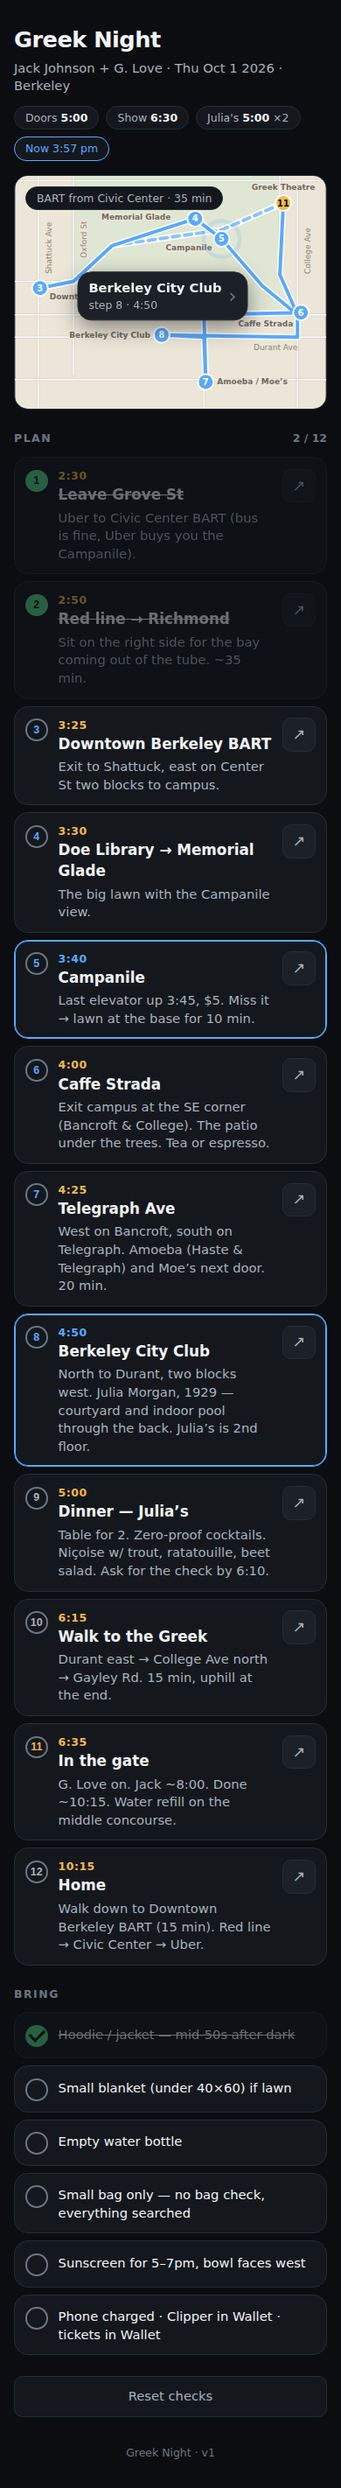
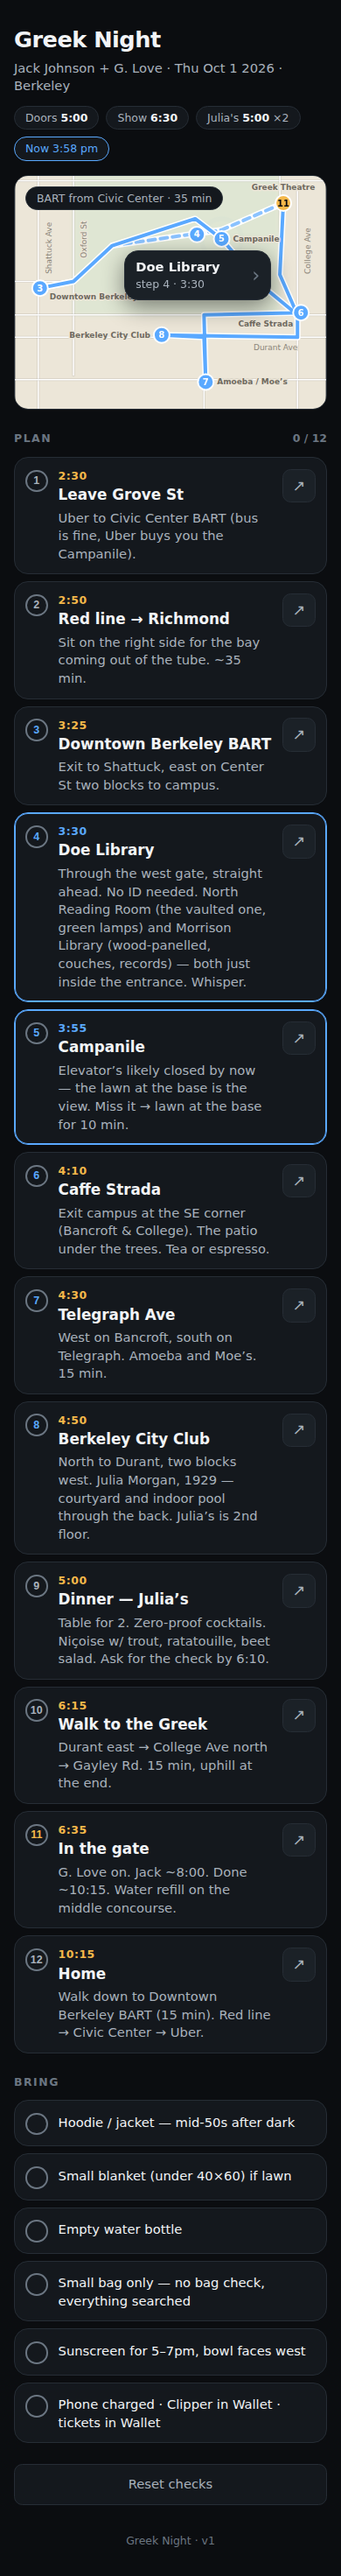
greek-night: Doe Library stop, numbered rows
Claude-Session: https://claude.ai/code/session_01SYEqCQ4izqiJdBAjLeUwFf

diff --git a/greek-night.html b/greek-night.html
@@ -128,10 +128,10 @@
     {t:'2:30', h:14, m:30, title:'Leave Grove St', note:'Uber to Civic Center BART (bus is fine, Uber buys you the Campanile).', map:M('Civic Center BART Station San Francisco')},
     {t:'2:50', h:14, m:50, title:'Red line → Richmond', note:'Sit on the right side for the bay coming out of the tube. ~35 min.', map:M('Civic Center BART Station San Francisco')},
     {t:'3:25', h:15, m:25, title:'Downtown Berkeley BART', note:'Exit to Shattuck, east on Center St two blocks to campus.', map:M('Downtown Berkeley BART Station')},
-    {t:'3:30', h:15, m:30, title:'Doe Library → Memorial Glade', note:'The big lawn with the Campanile view.', map:M('Memorial Glade UC Berkeley')},
-    {t:'3:40', h:15, m:40, title:'Campanile', note:'Last elevator up 3:45, $5. Miss it → lawn at the base for 10 min.', map:M('Sather Tower UC Berkeley')},
-    {t:'4:00', h:16, m:0, title:'Caffe Strada', note:'Exit campus at the SE corner (Bancroft & College). The patio under the trees. Tea or espresso.', map:M('Caffe Strada 2300 College Ave Berkeley')},
-    {t:'4:25', h:16, m:25, title:'Telegraph Ave', note:'West on Bancroft, south on Telegraph. Amoeba (Haste & Telegraph) and Moe’s next door. 20 min.', map:M('Amoeba Music 2455 Telegraph Ave Berkeley')},
+    {t:'3:30', h:15, m:30, title:'Doe Library', note:'Through the west gate, straight ahead. No ID needed. North Reading Room (the vaulted one, green lamps) and Morrison Library (wood-panelled, couches, records) — both just inside the entrance. Whisper.', map:M('Doe Memorial Library UC Berkeley')},
+    {t:'3:55', h:15, m:55, title:'Campanile', note:'Elevator’s likely closed by now — the lawn at the base is the view. Miss it → lawn at the base for 10 min.', map:M('Sather Tower UC Berkeley')},
+    {t:'4:10', h:16, m:10, title:'Caffe Strada', note:'Exit campus at the SE corner (Bancroft & College). The patio under the trees. Tea or espresso.', map:M('Caffe Strada 2300 College Ave Berkeley')},
+    {t:'4:30', h:16, m:30, title:'Telegraph Ave', note:'West on Bancroft, south on Telegraph. Amoeba and Moe’s. 15 min.', map:M('Amoeba Music 2455 Telegraph Ave Berkeley')},
     {t:'4:50', h:16, m:50, title:'Berkeley City Club', note:'North to Durant, two blocks west. Julia Morgan, 1929 — courtyard and indoor pool through the back. Julia’s is 2nd floor.', map:M('Berkeley City Club 2315 Durant Ave Berkeley')},
     {t:'5:00', h:17, m:0, title:'Dinner — Julia’s', note:'Table for 2. Zero-proof cocktails. Niçoise w/ trout, ratatouille, beet salad. Ask for the check by 6:10.', map:M('Julia’s Restaurant 2315 Durant Ave Berkeley')},
     {t:'6:15', h:18, m:15, title:'Walk to the Greek', note:'Durant east → College Ave north → Gayley Rd. 15 min, uphill at the end.', map:M('Greek Theatre 2001 Gayley Rd Berkeley')},
@@ -215,7 +215,7 @@
   /* ---------- map hero: offline SVG, projected from the data ---------- */
   var PLACES = [
     {n:'Downtown Berkeley BART', lat:37.8699, lng:-122.2681, step:3},
-    {n:'Memorial Glade', lat:37.8730, lng:-122.2593, step:4},
+    {n:'Doe Library', lat:37.8723, lng:-122.2592, step:4},
     {n:'Campanile', lat:37.8721, lng:-122.2578, step:5},
     {n:'Caffe Strada', lat:37.8688, lng:-122.2533, step:6},
     {n:'Amoeba / Moe’s', lat:37.8657, lng:-122.2587, step:7},
